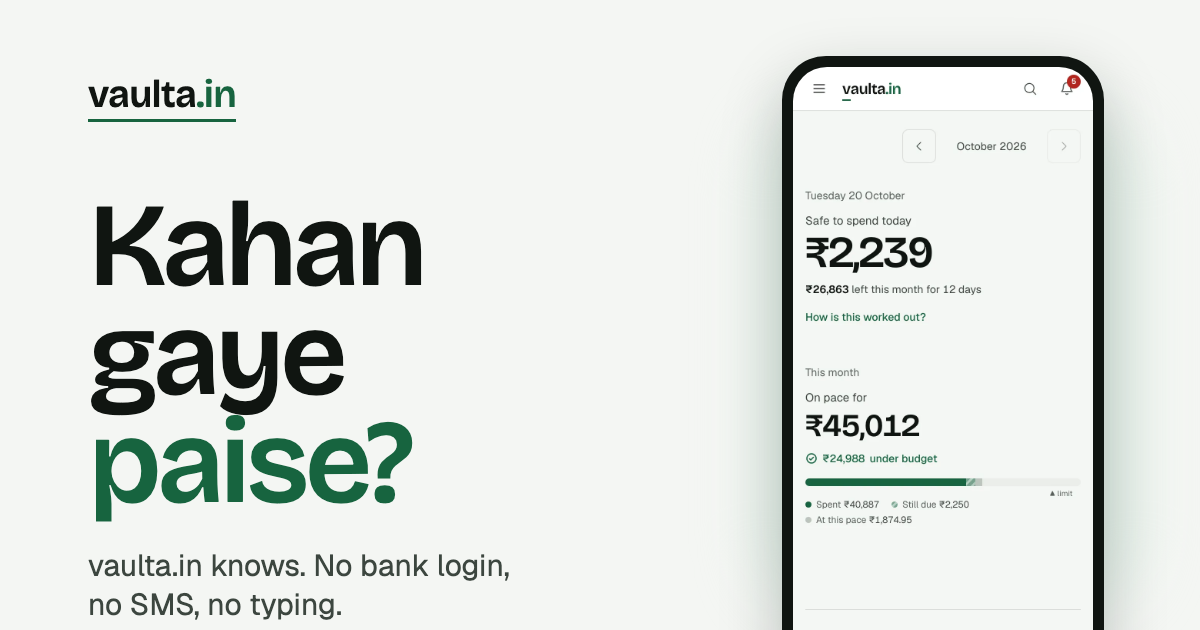
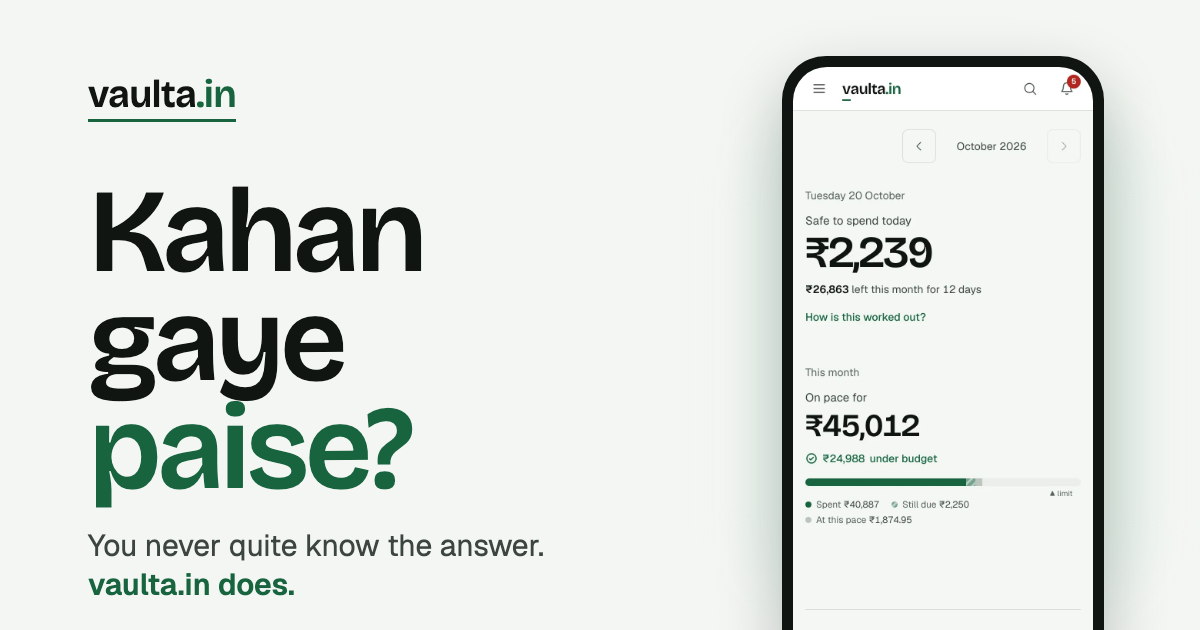
Share text and og.png: "Kahan gaye paise? vaulta.in does.", matching the hero

Changed region(s): [[0.0617, 0.4825, 0.4625, 0.9952], [0.0617, 0.3016, 0.37, 0.4524]]

diff --git a/frontend/index.html b/frontend/index.html
@@ -16,16 +16,16 @@
     <title>vaulta.in: Private Expense Tracker for India</title>
     <meta property="og:type" content="website" />
     <meta property="og:site_name" content="vaulta.in" />
-    <meta property="og:title" content="Kahan gaye paise? vaulta.in knows." />
+    <meta property="og:title" content="Kahan gaye paise? vaulta.in does." />
     <meta property="og:description" content="Track your UPI and card spending in India without a bank login: vaulta.in reads your bank statement on your device, sorts your payments, keeps you on budget and answers questions about your money." />
     <meta property="og:url" content="https://vaulta.in/welcome" />
     <meta property="og:image" content="https://vaulta.in/og.png" />
     <meta property="og:image:width" content="1200" />
     <meta property="og:image:height" content="630" />
-    <meta property="og:image:alt" content="Kahan gaye paise? vaulta.in knows. A phone showing vaulta.in's home screen." />
+    <meta property="og:image:alt" content="Kahan gaye paise? vaulta.in does. A phone showing vaulta.in's home screen." />
     <meta property="og:locale" content="en_IN" />
     <meta name="twitter:card" content="summary_large_image" />
-    <meta name="twitter:title" content="Kahan gaye paise? vaulta.in knows." />
+    <meta name="twitter:title" content="Kahan gaye paise? vaulta.in does." />
     <meta name="twitter:description" content="Track your UPI and card spending in India without a bank login: vaulta.in reads your bank statement on your device, sorts your payments, keeps you on budget and answers questions about your money." />
     <meta name="twitter:image" content="https://vaulta.in/og.png" />
     <script type="application/ld+json">{"@context":"https://schema.org","@type":"WebApplication","name":"vaulta.in","url":"https://vaulta.in","applicationCategory":"FinanceApplication","operatingSystem":"Web","inLanguage":"en-IN","offers":{"@type":"Offer","price":"0","priceCurrency":"INR"},"description":"Private expense tracker for India: UPI and bank statement spending, budgets and questions about your money."}</script>

diff --git a/frontend/src/lib/pageMeta.test.js b/frontend/src/lib/pageMeta.test.js
@@ -31,6 +31,9 @@ describe("search metadata", () => {
       expect(html).toMatch(new RegExp(`(property|name)="${k}" content="https://vaulta\\.in/`));
     }
     expect(html + robots + sitemap).not.toMatch(/vercel\.app|onrender\.com|firebaseapp\.com/);
+    for (const k of ["og:title", "twitter:title"]) {
+      expect(html).toContain(`="${k}" content="Kahan gaye paise? vaulta.in does." />`); // the hero's answer line
+    }
     const png = readFileSync(new URL("../../public/og.png", import.meta.url));
     expect([png.readUInt32BE(16), png.readUInt32BE(20)]).toEqual([1200, 630]);
   });
